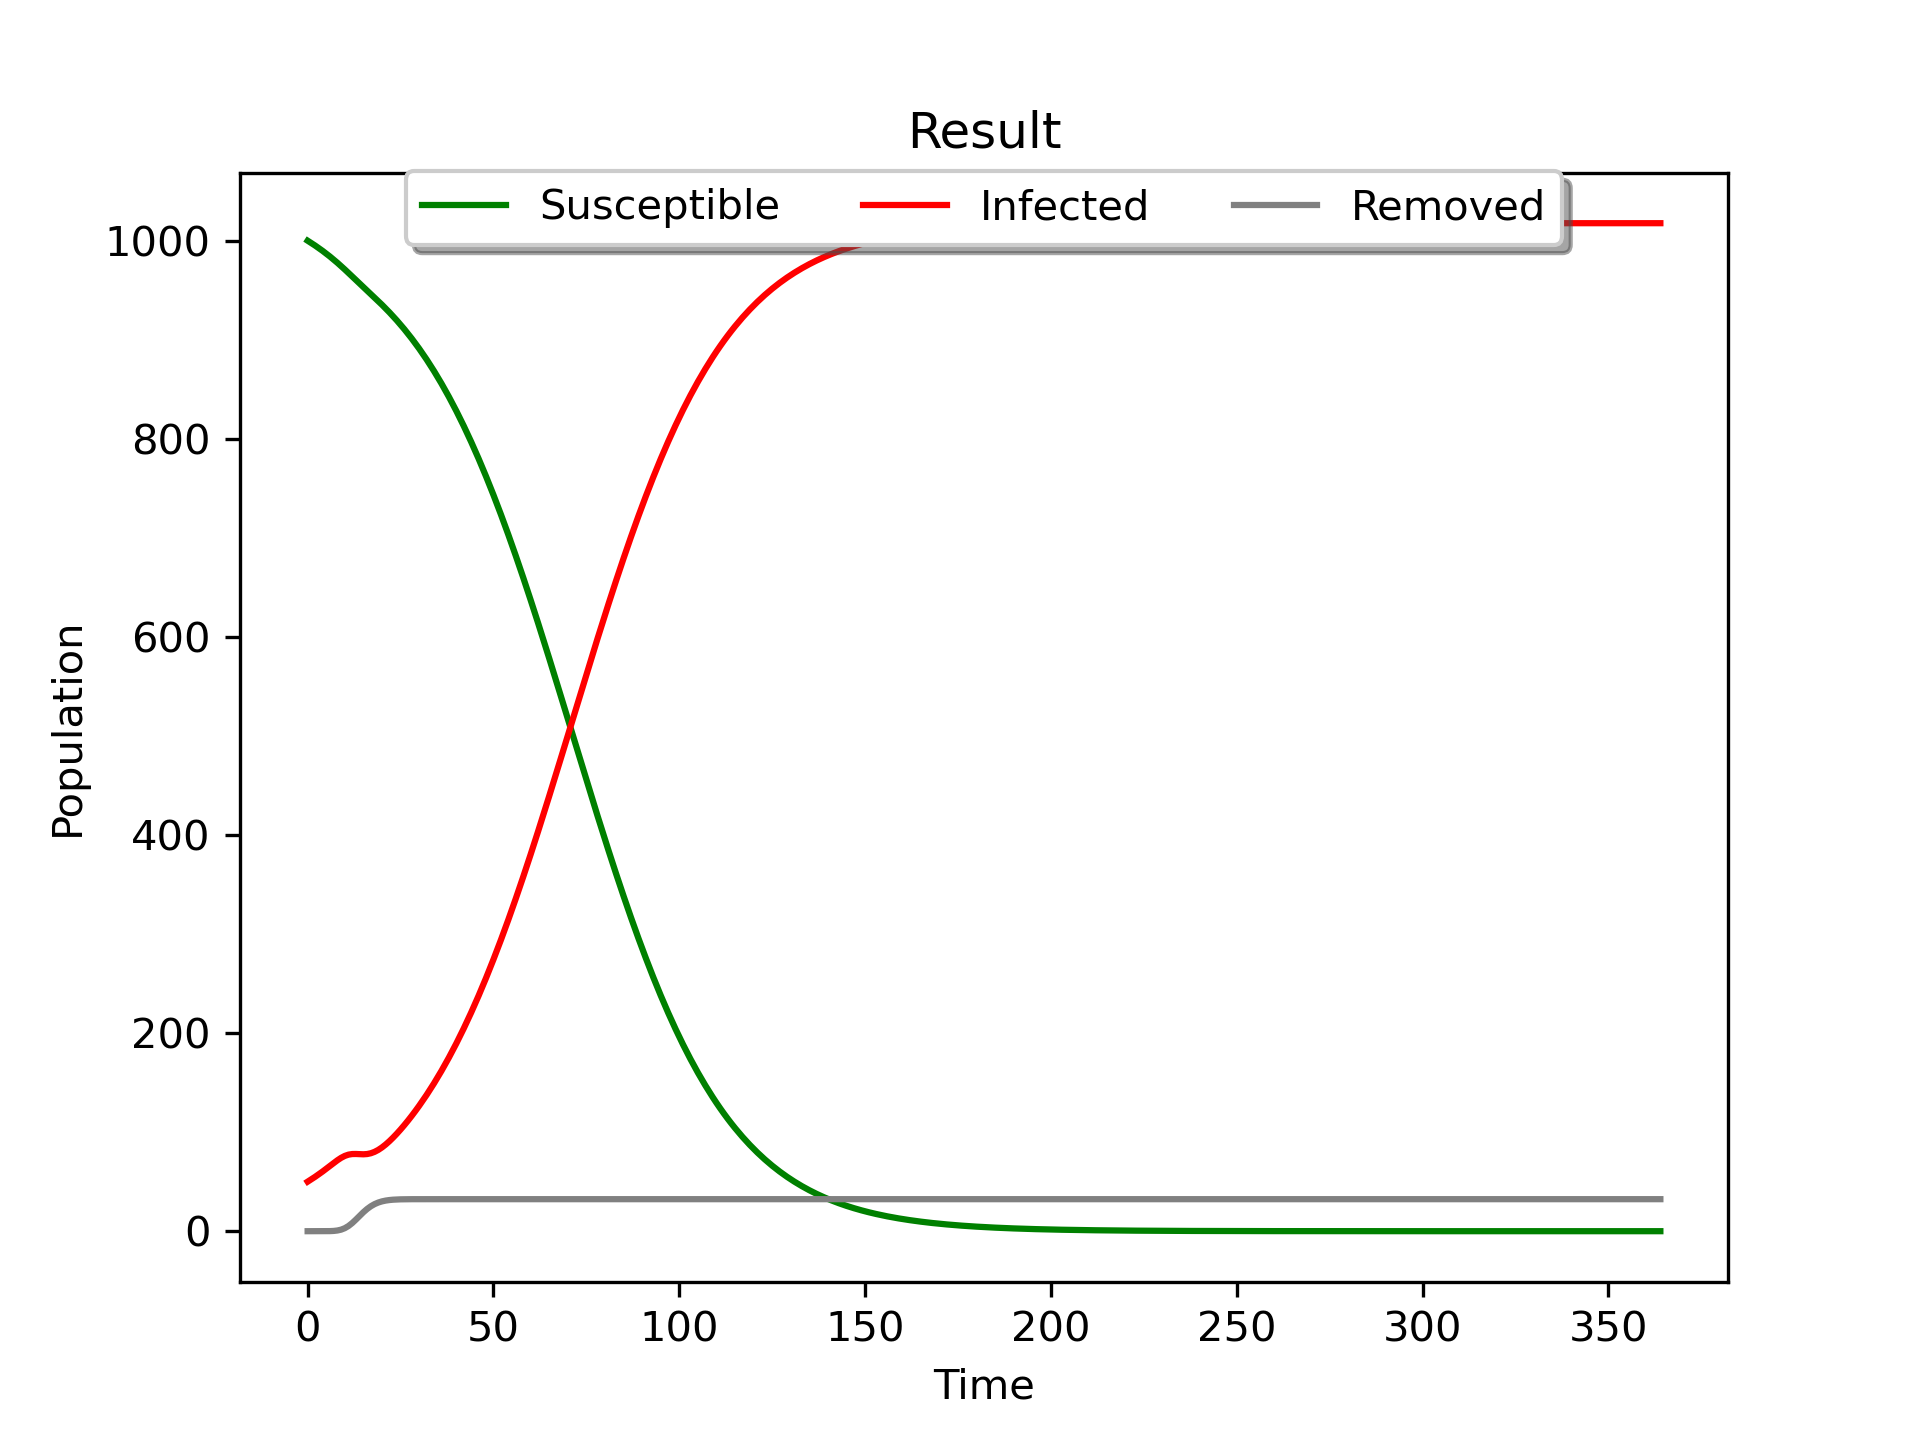
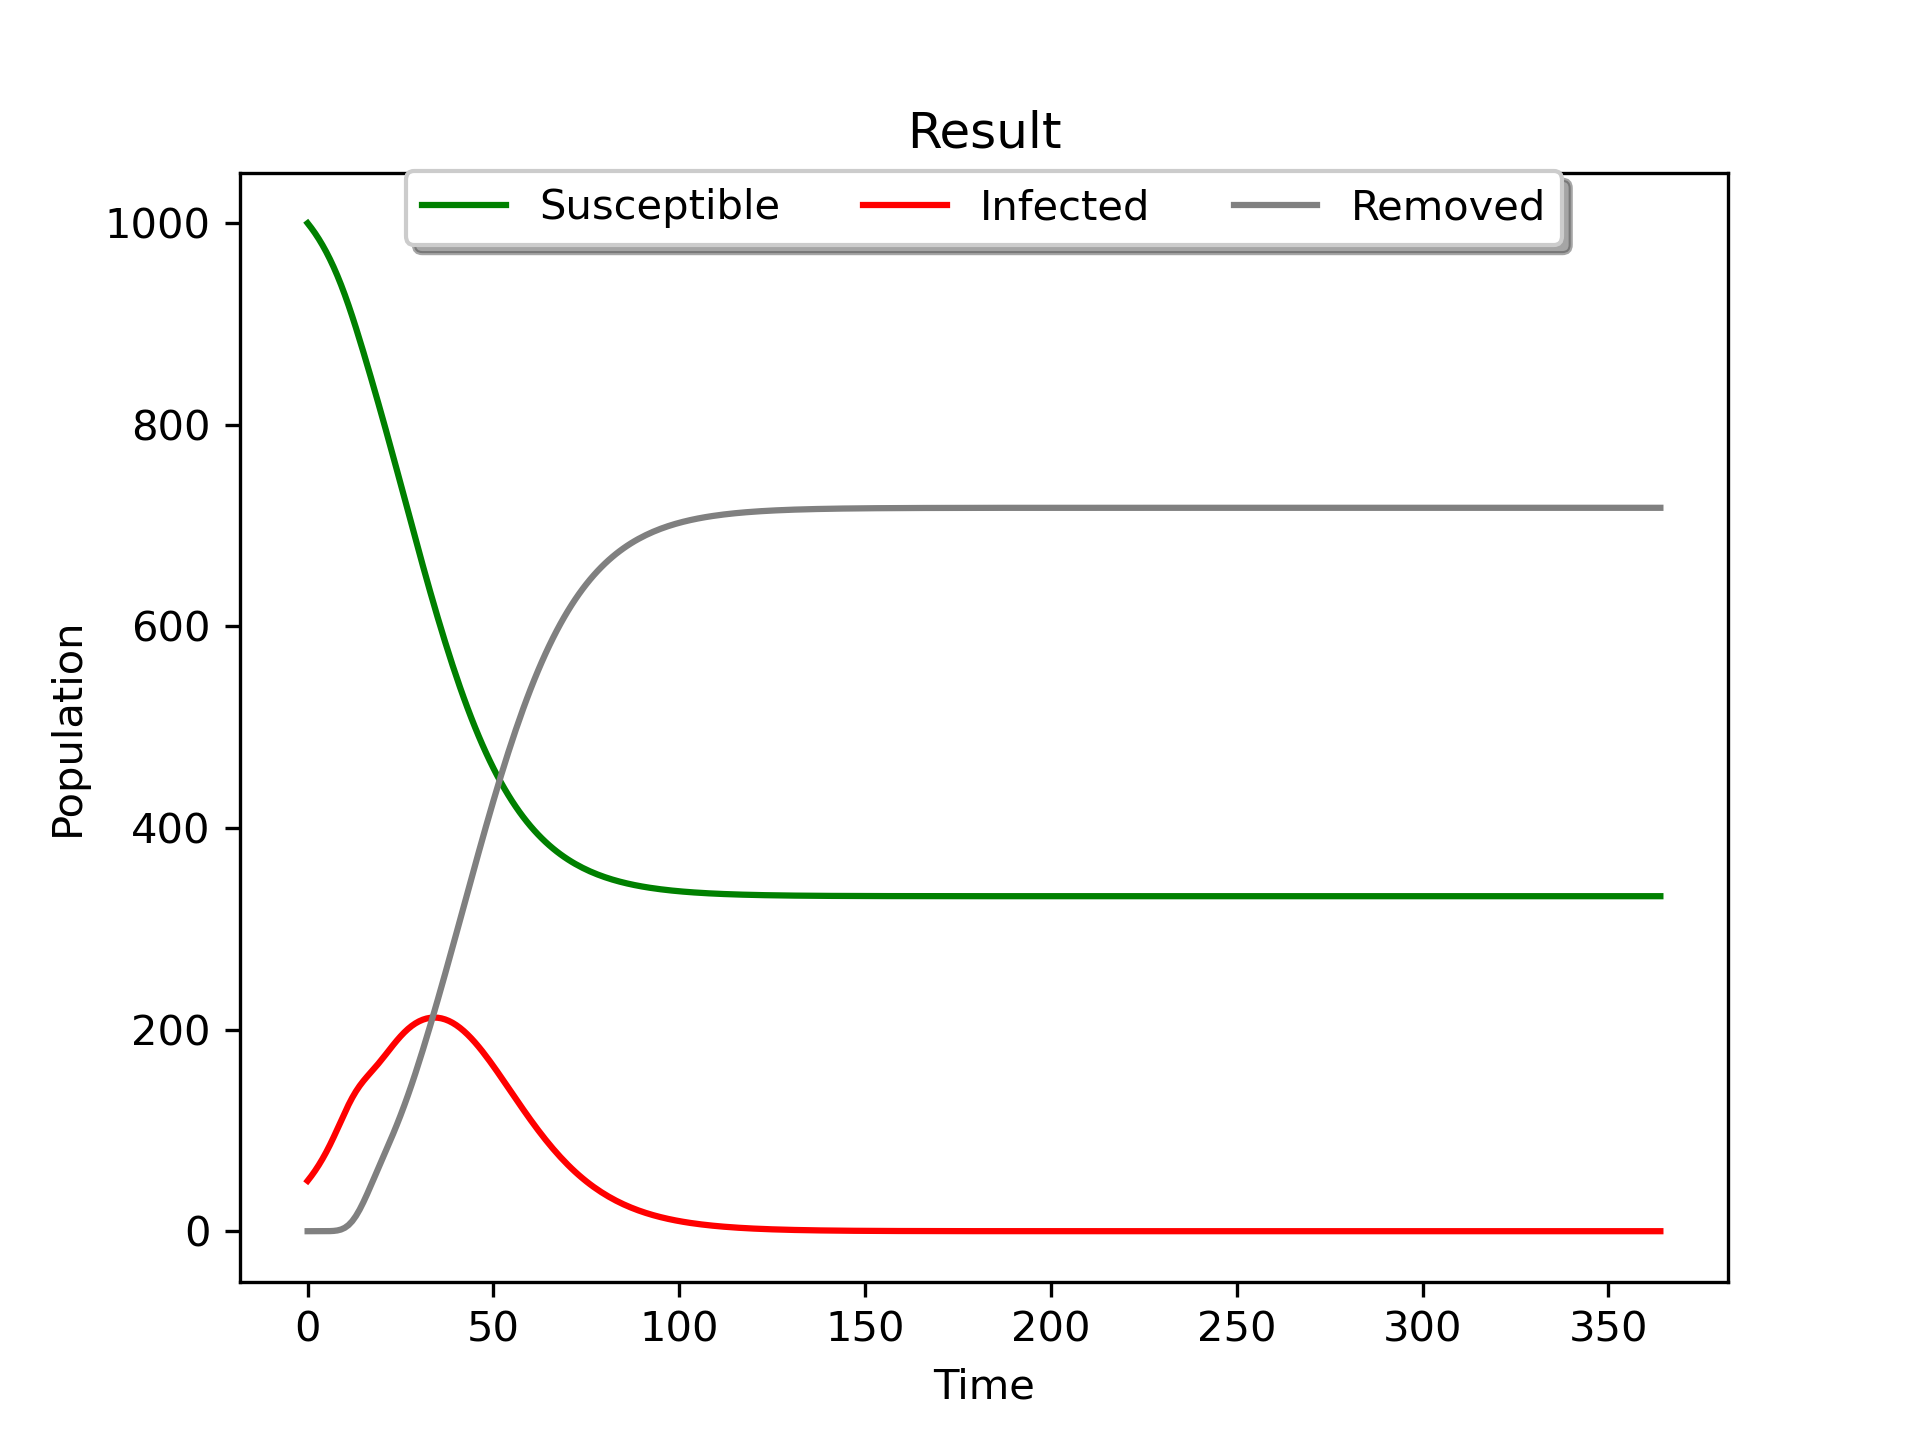
S->I->R with time-dependent I->R

diff --git a/model.py b/model.py
@@ -11,9 +11,9 @@ import seaborn as sns
 
 
 class Model:
-    def __init__(self, duration=365, timeStep=1,  # days
+    def __init__(self, duration=100, timeStep=1,  # days
                  susceptible=1000, infected=50, queued=0, removed=0,  # initial
-                 rateSI=0.05, rateIR=0.01,  # per timeStep
+                 rateSI=0.1,  # per timeStep
                  servers=1000, serverMu=1, timeForTest=1,  # serverMu in days
                  pSymptomatic=.8, tSymptomatic=2, tRecovery=14,  # p-probability, t-time in  days
                  balking=None, reneging=None
@@ -26,7 +26,6 @@ class Model:
         self.InitialQueued = queued
         self.InitialRemoved = removed
         self.RateSI = rateSI
-        self.RateIR = rateIR
 
         self.Servers = servers/timeStep
         self.ServerMu = serverMu/timeStep
@@ -36,9 +35,12 @@ class Model:
         self.TRecovery = tRecovery/timeStep
 
         self.PdfItoQ = self.__getPoissonPdf(self.NTimeSteps,
-                                            self.TSymptomatic)
-        self.PdfItoQ = [p*self.PSymptomatic for p in self.PdfItoQ]
+                                            self.TSymptomatic,
+                                            self.PSymptomatic)
         self.PdfItoR = self.__getPoissonPdf(self.NTimeSteps,
+                                            self.TRecovery,
+                                            1-self.PSymptomatic)
+        self.PdfQtoR = self.__getPoissonPdf(self.NTimeSteps,
                                             self.TRecovery)
 
         self.TotalIndividuals = susceptible + infected + removed
@@ -50,23 +52,23 @@ class Model:
         zeros = [0 for _ in range(1, self.NTimeSteps)]
         S = np.array([self.InitialSusceptible] + zeros, dtype='f')
         I = np.array([self.InitialInfected] + zeros, dtype='f')
-        I_left = np.array([self.InitialInfected] + zeros,
-                          dtype='f')
-        Q = np.array([self.InitialQueued] + zeros, dtype='f')
-        Q_left = np.array([self.InitialQueued] + zeros, dtype='f')
+        I_byInfectedTime = np.array([self.InitialInfected] + zeros, dtype='f')
+        # I_left = np.array([self.InitialInfected] + zeros,
+        #                   dtype='f')
+        # Q = np.array([self.InitialQueued] + zeros, dtype='f')
+        # Q_left = np.array([self.InitialQueued] + zeros, dtype='f')
         R = np.array([self.InitialRemoved] + zeros, dtype='f')
 
         for i in range(0, self.NTimeSteps-1):
-            S_to_I = self.__S_to_I(i, S, I, Q)
+            S_to_I = self.__S_to_I(i, S, I)
             # I_to_Q, Imoved = self.__I_to_Q(i, I_left)
-            # I_left = self.__removeMoved(I_left, Imoved)
-            I_to_R, Imoved = self.__I_to_R(i, I_left)
-            I_left = self.__removeMoved(I_left, Imoved)
-            Q_to_R, Qmoved = self.__Q_to_R(i, I, Q, R, S)
-            Q_left = self.__removeMoved(Q_left, Qmoved)
+            I_to_R = self.__I_to_R(i, I_byInfectedTime)
+            # Q_to_R, Qmoved = self.__Q_to_R(i, I, Q, R, S)
+            # Q_left = self.__removeMoved(Q_left, Qmoved)
 
             S[i+1] = S[i] - S_to_I
             I[i+1] = I[i] + S_to_I - I_to_R  # - I_to_Q
+            I_byInfectedTime[i+1] = S_to_I
             # I_left[i+1] = I[i+1]
             # Q[i+1] = Q[i] + I_to_Q - Q_to_R
             # Q_left[i+1] = Q[i+1]
@@ -79,37 +81,41 @@ class Model:
                                                "Removed": R})
         self.HasModelRun = True
 
-    def __S_to_I(self, i, S, I, Q):
-        f = (self.RateSI * S[i] * (I[i] + Q[i])) \
+    def __S_to_I(self, i, S, I):
+        f = (self.RateSI * S[i] * (I[i])) \
             / self.TotalIndividuals
         return f
 
     def __I_to_Q(self, i, I_left):
-        f, moved = self.__conv(I_left, self.PdfItoQ, i)
-        return f, moved
+        f = self.__conv(I_left, self.PdfItoQ, i)
+        return f
 
     def __I_to_R(self, i, I_left):
-        f, moved = self.__conv(I_left, self.PdfItoR, i)
-        return f, moved
+        f = self.__conv(I_left, self.PdfItoR, i)
+        return f
 
     def __Q_to_R(self, i, I, Q, R, S):
-        f, moved = self.__conv(Q, self.PdfItoR, i)
-        return f, moved
+        f = self.__conv(Q, self.PdfItoR, i)
+        return f
 
-    def __conv(self, a, b, index):
-        n = min(index+1, len(b), len(a))
-        aMoved = np.zeros(index+1)
+    def __conv(self, array, pdf, index):
+        print(sum(pdf))
+        n = min(index+1, len(pdf), len(array))
+        s = 0
         for k in range(0, n):
-            aMoved[index-k] = a[index-k]*b[k]
+            s += array[index-k]*pdf[k]
 
-        return sum(aMoved), aMoved
+        if s > sum(array):
+            _ = 1
+
+        return s
 
     def __removeMoved(self, array, moved):
         for i in range(min(len(array), len(moved))):
             array[i] = array[i] - moved[i]
         return array
 
-    def __getPoissonPdf(self, arrayLength, mean):
+    def __getPoissonPdf(self, arrayLength, mean, totalProbability=1):
         pow = 1
         factorial = 1
         exp = np.exp(-mean)
@@ -118,7 +124,7 @@ class Model:
         arrayLength = min(50, arrayLength)
 
         for i in range(1, arrayLength):
-            pdf.append(pow*exp/factorial)
+            pdf.append(pow*exp/factorial*totalProbability)
             pow *= mean
             factorial *= i
 

diff --git a/main.py b/main.py
@@ -2,9 +2,9 @@ from model import Model
 
 
 def main():
-    model = Model(duration=365, servers=0)
+    model = Model(servers=0, pSymptomatic=0)
     model.run()
-    model.plot('example_simulation.png')
+    model.plot()
 
 
 if __name__ == '__main__':

diff --git a/example_simulation.py b/example_simulation.py
@@ -1,5 +1,5 @@
 from model import Model
 
-model = Model(duration=365, servers=0)
+model = Model()
 model.run()
 model.plot('example_simulation.png')
